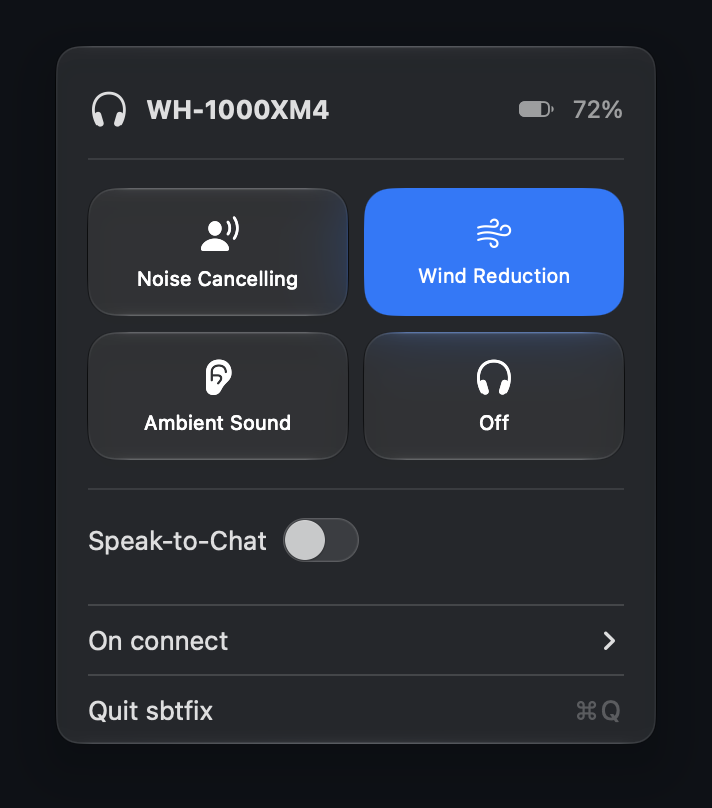
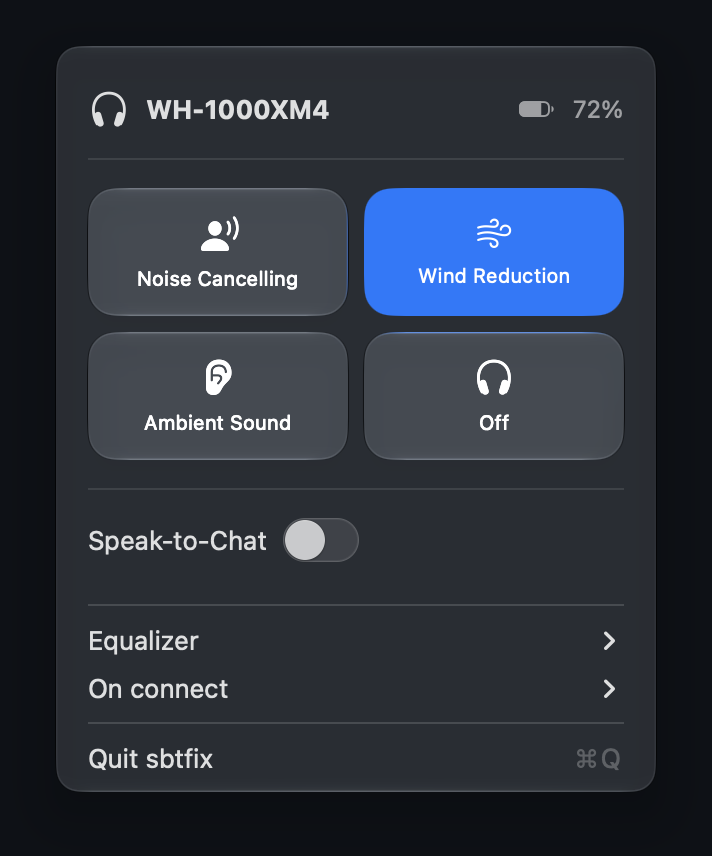
Equalizer presets for WH-1000XM4
An Equalizer submenu lists the 12 presets of the WH-1000XM4. It appears
once the headphones answer the equalizer read, and the checkmark follows
their notifications, so changes from the Sony app show up too.

Tested on a WH-1000XM4 (fw 2.5.0): 6 preset changes were each confirmed
within 250 ms, with no alerts, and the preset survives a reconnect. The
read is v1 only, because newer models use other preset ids.

Share the submenu builder with On connect, document the commands in
PROTOCOL.md and show the new item in the XM4 screenshot.

diff --git a/Sources/sbtfix/SbtfixApp.swift b/Sources/sbtfix/SbtfixApp.swift
@@ -10,10 +10,12 @@ final class SbtfixApp: NSObject, NSApplicationDelegate, NSMenuDelegate {
     private let controller = Screenshots.shot?.controller ?? HeadphoneController()
     private let menu = NSMenu()
     private let retryItem = NSMenuItem(title: "Retry", action: #selector(retry), keyEquivalent: "")
+    private let equalizerItem = NSMenuItem(title: "Equalizer", action: nil, keyEquivalent: "")
     private var startupItems: [NSMenuItem] = []
     private var item: NSStatusItem?
     private var icon: AnyCancellable?
     private var retryVisibility: AnyCancellable?
+    private var equalizerState: AnyCancellable?
 
     static func main() {
         let app = SbtfixApp()
@@ -36,14 +38,10 @@ final class SbtfixApp: NSObject, NSApplicationDelegate, NSMenuDelegate {
         panel.view = host
         menu.addItem(panel)
         menu.addItem(.separator())
-        let startup = NSMenu()
-        for mode in StartupMode.allCases {
-            let item = NSMenuItem(title: mode.title, action: #selector(setStartupMode), keyEquivalent: "")
-            item.target = self
-            item.representedObject = mode
-            startup.addItem(item)
-            startupItems.append(item)
-        }
+        equalizerItem.submenu = submenu(EqualizerPreset.allCases, title: \.title, action: #selector(setEqualizer))
+        menu.addItem(equalizerItem)
+        let startup = submenu(StartupMode.allCases, title: \.title, action: #selector(setStartupMode))
+        startupItems = startup.items
         menu.addItem(withTitle: "On connect", action: nil, keyEquivalent: "").submenu = startup
         menu.addItem(.separator())
         retryItem.target = self
@@ -51,6 +49,12 @@ final class SbtfixApp: NSObject, NSApplicationDelegate, NSMenuDelegate {
         menu.addItem(withTitle: "Quit sbtfix", action: #selector(NSApplication.terminate), keyEquivalent: "q")
         menu.delegate = self
         retryVisibility = controller.$status.sink { [retryItem] in retryItem.isHidden = $0 == .connected }
+        equalizerState = controller.$equalizer.sink { [equalizerItem] current in
+            equalizerItem.isHidden = current == nil
+            for item in equalizerItem.submenu?.items ?? [] {
+                item.state = item.representedObject as? EqualizerPreset == current ? .on : .off
+            }
+        }
         if let shot = Screenshots.shot { Screenshots.open(menu, dark: shot.dark) }
 
         let item = NSStatusBar.system.statusItem(withLength: NSStatusItem.variableLength)
@@ -66,6 +70,17 @@ final class SbtfixApp: NSObject, NSApplicationDelegate, NSMenuDelegate {
         controller.start()
     }
 
+    private func submenu<Value>(_ values: [Value], title: (Value) -> String, action: Selector) -> NSMenu {
+        let submenu = NSMenu()
+        for value in values {
+            let item = NSMenuItem(title: title(value), action: action, keyEquivalent: "")
+            item.target = self
+            item.representedObject = value
+            submenu.addItem(item)
+        }
+        return submenu
+    }
+
     func menuWillOpen(_ menu: NSMenu) {
         for item in startupItems {
             item.state = item.representedObject as? StartupMode == controller.startupMode ? .on : .off
@@ -79,6 +94,10 @@ final class SbtfixApp: NSObject, NSApplicationDelegate, NSMenuDelegate {
 
     @objc private func setStartupMode(_ sender: NSMenuItem) {
         if let mode = sender.representedObject as? StartupMode { controller.startupMode = mode }
+    }
+
+    @objc private func setEqualizer(_ sender: NSMenuItem) {
+        if let preset = sender.representedObject as? EqualizerPreset { controller.setEqualizer(preset) }
     }
 }
 
@@ -98,6 +117,25 @@ extension AmbientMode {
         case .windNoiseReduction: "wind"
         case .ambient: "ear.fill"
         case .off: "headphones"
+        }
+    }
+}
+
+extension EqualizerPreset {
+    var title: String {
+        switch self {
+        case .off: "Off"
+        case .bright: "Bright"
+        case .excited: "Excited"
+        case .mellow: "Mellow"
+        case .relaxed: "Relaxed"
+        case .vocal: "Vocal"
+        case .trebleBoost: "Treble Boost"
+        case .bassBoost: "Bass Boost"
+        case .speech: "Speech"
+        case .manual: "Manual"
+        case .custom1: "Custom 1"
+        case .custom2: "Custom 2"
         }
     }
 }

diff --git a/Sources/sbtfix/HeadphoneController.swift b/Sources/sbtfix/HeadphoneController.swift
@@ -62,6 +62,8 @@ final class HeadphoneController: NSObject, ObservableObject {
     @Published private(set) var ambientLayout: AmbientLayout?
     /// nil until the device answers; stays nil on models without Speak-to-Chat.
     @Published private(set) var speakToChat: Bool?
+    /// nil until the device answers; stays nil on models without an equalizer.
+    @Published private(set) var equalizer: EqualizerPreset?
 
     /// Applied once per connection, as soon as the device has reported its ambient state.
     var startupMode: StartupMode = StartupMode.load() {
@@ -179,6 +181,7 @@ final class HeadphoneController: NSObject, ObservableObject {
         }
         requestBattery()
         enqueue(Command.getSpeakToChat(version), key: "get-stc")
+        requestEqualizer()
     }
 
     func setMode(_ mode: AmbientMode) {
@@ -204,6 +207,11 @@ final class HeadphoneController: NSObject, ObservableObject {
         speakToChat = on
         lastStcSet = Date()
         enqueue(Command.setSpeakToChat(on, version), key: "stc")
+    }
+
+    func setEqualizer(_ preset: EqualizerPreset) {
+        equalizer = preset
+        enqueue(Command.setEqualizer(preset), key: "eq")
     }
 
     private func sendAmbient(_ s: AmbientState) {
@@ -232,6 +240,11 @@ final class HeadphoneController: NSObject, ObservableObject {
         guard s.mode == .ambient else { return }
         UserDefaults.standard.set(s.level, forKey: Self.levelKey)
         UserDefaults.standard.set(s.focusOnVoice, forKey: Self.focusKey)
+    }
+
+    /// v1 only: newer models use other preset ids.
+    private func requestEqualizer() {
+        if version == .v1 { enqueue(Command.getEqualizer, key: "get-eq") }
     }
 
     private func requestBattery() {
@@ -314,6 +327,7 @@ final class HeadphoneController: NSObject, ObservableObject {
         ambientLayout = nil
         batteries = Batteries()
         speakToChat = nil
+        equalizer = nil
         status = .searching
         startRetryTimer()
     }
@@ -414,6 +428,8 @@ final class HeadphoneController: NSObject, ObservableObject {
             guard !queue.contains(where: { $0.key == "stc" }),
                   Date().timeIntervalSince(lastStcSet) > 0.8 else { return }
             speakToChat = enabled
+        case .equalizer(let preset):
+            equalizer = preset
         case .unknown:
             break
         }
@@ -456,6 +472,7 @@ final class HeadphoneController: NSObject, ObservableObject {
         }
         requestBattery()
         enqueue(Command.getSpeakToChat(v))
+        requestEqualizer()
     }
 }
 
@@ -505,7 +522,8 @@ extension HeadphoneController {
     static func preview(status: Status, name: String = "WH-1000XM5",
                         batteries: Batteries = Batteries(single: BatteryLevel(level: 72, charging: false)),
                         ambient: AmbientState = AmbientState(mode: .noiseCancelling, focusOnVoice: false, level: 20),
-                        speakToChat: Bool? = false) -> HeadphoneController {
+                        speakToChat: Bool? = false,
+                        equalizer: EqualizerPreset? = nil) -> HeadphoneController {
         let c = HeadphoneController()
         c.status = status
         c.deviceName = name
@@ -513,6 +531,7 @@ extension HeadphoneController {
         c.batteries = batteries
         c.ambient = ambient
         c.speakToChat = speakToChat
+        c.equalizer = equalizer
         return c
     }
 }

diff --git a/Sources/SonyProtocol/Commands.swift b/Sources/SonyProtocol/Commands.swift
@@ -55,6 +55,14 @@ public enum BatteryKind: CaseIterable {
     case single, dual, dualAlt, caseBattery
 }
 
+/// Equalizer presets of the WH-1000XM4. Newer models use other ids.
+public enum EqualizerPreset: UInt8, CaseIterable {
+    case off = 0x00
+    case bright = 0x10, excited = 0x11, mellow = 0x12, relaxed = 0x13, vocal = 0x14
+    case trebleBoost = 0x15, bassBoost = 0x16, speech = 0x17
+    case manual = 0xA0, custom1 = 0xA1, custom2 = 0xA2
+}
+
 public enum Command {
     public static let initRequest: [UInt8] = [0x00, 0x00]
 
@@ -124,6 +132,14 @@ public enum Command {
         case .v2: [0xF8, 0x0C, enabled ? 0x00 : 0x01, 0x01]
         }
     }
+
+    // MARK: Equalizer (v1 only)
+
+    public static let getEqualizer: [UInt8] = [0x56, 0x01]
+
+    public static func setEqualizer(_ preset: EqualizerPreset) -> [UInt8] {
+        [0x58, 0x01, preset.rawValue, 0x00]
+    }
 }
 
 public enum Event: Equatable {
@@ -133,6 +149,7 @@ public enum Event: Equatable {
     case batteryDual(left: BatteryLevel?, right: BatteryLevel?)
     case batteryCase(BatteryLevel)
     case speakToChat(enabled: Bool)
+    case equalizer(EqualizerPreset)
     case unknown(UInt8)
 }
 
@@ -157,6 +174,8 @@ public enum EventParser {
             parsed = p.count == 4 && p[1] == 0x05 && p[2] <= 0x01 ? .speakToChat(enabled: p[3] == 0x01) : nil
         case (.v2, 0xF7), (.v2, 0xF9):
             parsed = p.count >= 3 && p[1] == 0x0C ? .speakToChat(enabled: p[2] == 0x00) : nil
+        case (.v1, 0x57), (.v1, 0x59):
+            parsed = p.count == 10 && p[1] == 0x01 ? EqualizerPreset(rawValue: p[2]).map(Event.equalizer) : nil
         default: parsed = nil
         }
         return parsed ?? .unknown(code)

diff --git a/Tests/SonyProtocolTests/SonyProtocolTests.swift b/Tests/SonyProtocolTests/SonyProtocolTests.swift
@@ -143,6 +143,17 @@ final class V1Tests: XCTestCase {
         XCTAssertEqual(EventParser.parse([0xF9, 0x05, 0x02, 0x01], version: .v1), .unknown(0xF9))
     }
 
+    func testEqualizer() {
+        XCTAssertEqual(Command.getEqualizer, [0x56, 0x01])
+        XCTAssertEqual(Command.setEqualizer(.bright), [0x58, 0x01, 0x10, 0x00])
+        // Captured from a WH-1000XM4, firmware 2.5.0
+        XCTAssertEqual(EventParser.parse([0x57, 0x01, 0x00, 0x06, 0x0A, 0x0A, 0x0A, 0x0A, 0x0A, 0x0A], version: .v1), .equalizer(.off))
+        XCTAssertEqual(EventParser.parse([0x59, 0x01, 0x10, 0x06, 0x09, 0x0A, 0x0F, 0x11, 0x11, 0x13], version: .v1), .equalizer(.bright))
+        // A preset this enum doesn't know, and the v2 form (WF-1000XM5), are ignored
+        XCTAssertEqual(EventParser.parse([0x57, 0x01, 0x30, 0x06, 0x0A, 0x0A, 0x0A, 0x0A, 0x0A, 0x0A], version: .v1), .unknown(0x57))
+        XCTAssertEqual(EventParser.parse([0x57, 0x00, 0xA0, 0x06, 0x14, 0x0B, 0x0A, 0x0D, 0x09, 0x0C], version: .v2), .unknown(0x57))
+    }
+
     func testV1CodesAreNotParsedAsV2() {
         XCTAssertEqual(EventParser.parse([0x11, 0x00, 0x46, 0x01], version: .v2), .unknown(0x11))
     }

diff --git a/Sources/sbtfix/Screenshots.swift b/Sources/sbtfix/Screenshots.swift
@@ -13,7 +13,8 @@ enum Screenshots {
                                ambient: AmbientState(mode: .ambient, focusOnVoice: false, level: 14)) }),
         ("off", { .preview(status: .connected, ambient: AmbientState(mode: .off, focusOnVoice: false, level: 20)) }),
         ("wind-xm4", { .preview(status: .connected, name: "WH-1000XM4",
-                                ambient: AmbientState(mode: .windNoiseReduction, focusOnVoice: false, level: 20)) }),
+                                ambient: AmbientState(mode: .windNoiseReduction, focusOnVoice: false, level: 20),
+                                equalizer: .off) }),
         ("earbuds", { .preview(status: .connected, name: "WF-1000XM5",
                                batteries: Batteries(left: BatteryLevel(level: 80, charging: false),
                                                     right: BatteryLevel(level: 76, charging: false),

diff --git a/docs/PROTOCOL.md b/docs/PROTOCOL.md
@@ -145,10 +145,24 @@ layout as v2.
 | → SET | `F8 05 01 <on>` (`01` = enabled, **not** inverted) |
 | ← RET/NOTIFY | `F7 05 01 <on>` / `F9 …`. A form with `02` as the third byte is also sent after a SET; it carries no value. |
 
+### Equalizer (`56`–`59`, v1)
+
+| Direction | Payload |
+|-----------|---------|
+| → GET | `56 01` |
+| → SET preset | `58 01 <preset> 00` |
+| ← RET/NOTIFY | `57 01 <preset> 06 <clear bass> <400 Hz> <1 kHz> <2.5 kHz> <6.3 kHz> <16 kHz>` / `59 …` |
+
+Each value is a step from -10 to +10, sent with 10 added. Presets on a WH-1000XM4 (fw 2.5.0): `00` Off, `10` Bright,
+`11` Excited, `12` Mellow, `13` Relaxed, `14` Vocal, `15` Treble Boost, `16` Bass Boost, `17` Speech, `A0` Manual,
+`A1` Custom 1, `A2` Custom 2. The headphones keep the preset across reconnects. Newer models use other ids, so the
+app only handles the equalizer on v1.
+
 ## Seen but not yet decoded
 
 | Payload | Observed when |
 |---------|---------------|
+| `17 00 02 00` | Sent when a WH-1000XM4 switches between equalizer Off and a preset, not between presets |
 | `A5 01 00 01 00` / `A5 01 00 02 00` | Playback appears to resume or pause (for example when Speak-to-Chat triggers) |
 | `A9 …` | Sent frequently during playback |
 

diff --git a/README.md b/README.md
@@ -18,6 +18,7 @@ talks to the headphones directly over Bluetooth using the same protocol the phon
   Reduction on models that have it
 - Ambient level slider (1–20) and Focus on Voice
 - Speak-to-Chat on/off
+- Equalizer presets on WH-1000XM4
 - **On connect**: switch to Off or Ambient Sound as soon as the headphones connect, before you
   put them on (WH-1000XM4 always power on in Noise Cancelling)
 - Battery level with a charging indicator; left, right and case for earbuds

diff --git a/CHANGELOG.md b/CHANGELOG.md
@@ -1,5 +1,9 @@
 # Changelog
 
+## Unreleased
+
+- Equalizer submenu with the WH-1000XM4 presets. Other v1 models may work too, but aren't tested.
+
 ## 1.1.0
 
 - "On connect" startup mode: switch to Off or Ambient Sound as soon as the headphones connect
